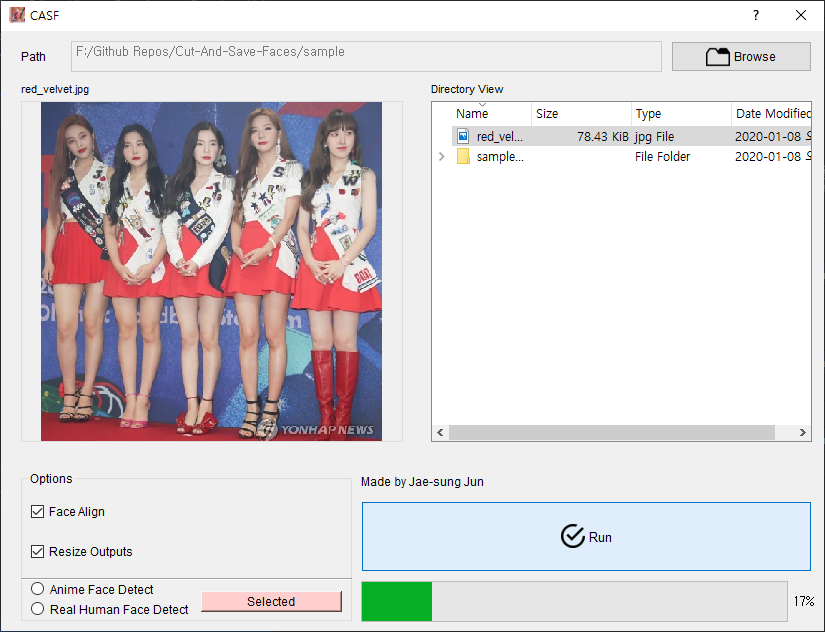
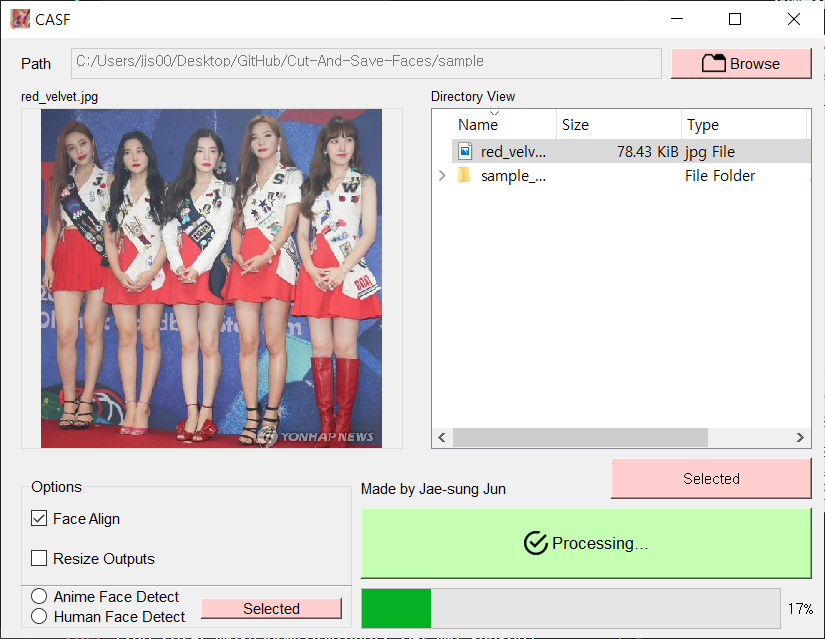
GUI Update

diff --git a/CASF-Main.py b/CASF-Main.py
@@ -70,7 +70,7 @@ class Main_Form_Ui(QMainWindow):
         self.real_face_radio_button.setObjectName("real_face_radio_button")
 
         self.anime_face_radio_button = QtWidgets.QRadioButton(self.group_box)
-        self.anime_face_radio_button.setGeometry(QtCore.QRect(10, 110, 141, 16))
+        self.anime_face_radio_button.setGeometry(QtCore.QRect(10, 110, 161, 16))
         self.anime_face_radio_button.setObjectName("anime_face_radio_button")
 
         self.detection_select_group = QtWidgets.QButtonGroup()
@@ -152,6 +152,10 @@ class Main_Form_Ui(QMainWindow):
         self.made_by_label.setFont(font)
         self.made_by_label.setObjectName("made_by_label")
         
+        self.output_path_select = QtWidgets.QPushButton(Dialog)
+        self.output_path_select.setGeometry(QtCore.QRect(610, 420, 201, 41))
+        self.output_path_select.setObjectName("output_path_select")
+
         self.retranslateUi(dialog)
 
     def retranslateUi(self, Dialog):
@@ -166,35 +170,34 @@ class Main_Form_Ui(QMainWindow):
         self.image_view_label.setText(_translate("Dialog", "Image View"))
         self.directory_view_label.setText(_translate("Dialog", "Directory View"))
         self.made_by_label.setText(_translate("Dialog", "Made by Jae-sung Jun"))
-        self.real_face_radio_button.setText(_translate("Dialog", "Real Human Face Detect"))
+        self.real_face_radio_button.setText(_translate("Dialog", "Human Face Detect"))
         self.anime_face_radio_button.setText(_translate("Dialog", "Anime Face Detect"))
         self.custom_detection_file.setText(_translate("Dialog", "Select Detection File"))
-       
+        self.output_path_select.setText(_translate("Dialog", "Select Output Path"))
+
 class Main_Form_Event_Handle:
 
     def __init__(self, main_dialog):
 
         self.path = ""
+        self.output_path = ""
         self.wh = ["",""]
         self.detection_file = ""
 
         self.main_dialog = main_dialog
-        
-        
-        self.main_dialog.statusBar()
         self.main_dialog.browse_button.clicked.connect(self.browseFileDialog)
         self.main_dialog.directory_tree_view.clicked.connect(self.directoryViewClick)
         self.main_dialog.resize_checkBox.stateChanged.connect(self.resizeCheckbox)
         self.main_dialog.custom_detection_file.clicked.connect(self.custom_detection_fileSelect)
         self.main_dialog.face_align_checkBox.clicked.connect(self.faceAlignCheckboxChecked)
-        
+        self.main_dialog.output_path_select.clicked.connect(self.getOutputPath)
         self.main_dialog.real_face_radio_button.clicked.connect(lambda: self.detectionFileCheck("real"))
         self.main_dialog.anime_face_radio_button.clicked.connect(lambda: self.detectionFileCheck("anime"))
 
         self.main_dialog.run_button.clicked.connect(self.run)
-       
         #icon
         self.setIcons()
+    
     def setIcons(self):
         icons_dir = os.path.dirname(os.path.realpath(__file__)) + "/icons/"
 
@@ -214,16 +217,18 @@ class Main_Form_Event_Handle:
         self.main_dialog.run_button.setIconSize(QtCore.QSize(24, 24))
 
     def browseFileDialog(self):
-        self.path = str(QtWidgets.QFileDialog.getExistingDirectory(self.main_dialog, "Select Directory"))
+        self.path = str(QtWidgets.QFileDialog.getExistingDirectory(self.main_dialog, "Select Directory", self.path))
         #Path is Exist
         if os.path.exists(self.path) == True:
-            self.main_dialog.path_text.setText(self.path)  
+            self.main_dialog.browse_button.setStyleSheet("background-color:#ffcece")
+            self.main_dialog.path_text.setText(self.path)
             self.model = QtWidgets.QFileSystemModel()
             self.model.setRootPath('')
             self.main_dialog.directory_tree_view.setModel(self.model)
             self.main_dialog.directory_tree_view.setRootIndex(self.model.index(self.path))
         #Path Not Selected
         elif self.path == "":
+            self.main_dialog.browse_button.setStyleSheet("")
             pass
 
         #Path is Not Exist
@@ -232,7 +237,7 @@ class Main_Form_Event_Handle:
     
     def faceAlignCheckboxChecked(self):
         if self.main_dialog.face_align_checkBox.isChecked() == True:
-            QtWidgets.QMessageBox.information(self.main_dialog, 'Information', "Face Align option is recommends at detect faces.", QtWidgets.QMessageBox.Ok)
+            QtWidgets.QMessageBox.information(self.main_dialog, 'Information', "Face Align option is recommended at detecting faces.", QtWidgets.QMessageBox.Ok)
     
     def directoryViewClick(self, index):
         path = self.main_dialog.sender().model().filePath(index)
@@ -258,8 +263,10 @@ class Main_Form_Event_Handle:
             self.wh = resize_output.getOutput()
 
     def detectionFileCheck(self, detection_object):
+        
         self.main_dialog.custom_detection_file.setText("Select Detection File")
         self.main_dialog.custom_detection_file.setStyleSheet("")
+
         if detection_object == "real":
             self.detection_file = ".\detection-files\haarcascade_frontalface_default.xml"
         elif detection_object == "anime":
@@ -276,13 +283,16 @@ class Main_Form_Event_Handle:
 
         self.main_dialog.detection_select_group.setExclusive(True)
 
-        fname = QtWidgets.QFileDialog.getOpenFileName(self.main_dialog, 'Open file', "", "XML Files(*.xml);; All Files(*)")
+        fname = QtWidgets.QFileDialog.getOpenFileName(self.main_dialog, "Open file", "./detection-files", "XML Files(*.xml);; All Files(*)")
         
         if os.path.isfile(fname[0]):
             self.detection_file = fname[0]
             self.main_dialog.custom_detection_file.setText("Selected")
             self.main_dialog.custom_detection_file.setStyleSheet("background-color:#ffcece")
         elif fname[0] == "":
+            self.detection_file = ""
+            self.main_dialog.custom_detection_file.setText("Select Detection File")
+            self.main_dialog.custom_detection_file.setStyleSheet("")
             pass
         elif not os.path.isfile(fname[0]):
             self.errorMessageBox("Error", "Please select other detection file")
@@ -291,6 +301,7 @@ class Main_Form_Event_Handle:
     def run(self):
         self.options = {
                         'input_path':self.path,
+                        'output_path':self.output_path,
                         'face_alignment':self.main_dialog.face_align_checkBox.isChecked(), 
                         'resize_output':self.main_dialog.resize_checkBox.isChecked(), 
                         'resize_width':self.wh[0],
@@ -298,15 +309,37 @@ class Main_Form_Event_Handle:
                         'detection_file':self.detection_file
                         }
         #print(self.options)
-        if self.checkOptions(self.options) == False:
+        if not self.checkOptions(self.options):
             self.main_dialog.progress_bar.setProperty("value", 0)
+            self.main_dialog.run_button.setStyleSheet("background-color:#c4ffb2")
+            self.main_dialog.run_button.setText("Processing...")
             run = CASF.CASF_Main(self.options, self.main_dialog)
-    
+            self.main_dialog.run_button.setStyleSheet("")
+            self.main_dialog.run_button.setText("Run")
+
+    def getOutputPath(self):
+        self.output_path = str(QtWidgets.QFileDialog.getExistingDirectory(self.main_dialog, "Select Directory", self.output_path))
+        if os.path.exists(self.output_path) == True:
+            self.main_dialog.output_path_select.setText("Selected")
+            self.main_dialog.output_path_select.setStyleSheet("background-color:#ffcece")
+        #Path Not Selected
+        elif self.output_path == "":
+            self.main_dialog.output_path_select.setText("Select Output Path")
+            self.main_dialog.output_path_select.setStyleSheet("")
+            pass
+        #Path is Not Exist
+        elif os.path.exists(self.output_path) == False:
+            self.errorMessageBox("Directory Load Error", "Please select other directory")
+
     def checkOptions(self, options):
         err = False
         # Exception Handling
         if self.options['input_path'] == "":
             self.errorMessageBox("Error", "Please select your input directory path")
+            err = True
+
+        elif self.options['output_path'] == "":
+            self.errorMessageBox("Error", "Please select your output directory path")
             err = True
 
         elif self.options['detection_file'] == "":
@@ -328,10 +361,9 @@ if __name__ == "__main__":
     app = QtWidgets.QApplication(sys.argv)
 
     dialog = QtWidgets.QMainWindow()
-    
+
     main_form_ui = Main_Form_Ui()
     main_form_ui.setupUi(dialog)
-
     # ===========Event Handle Codes=============== #
     event_handle = Main_Form_Event_Handle(main_form_ui)
     dialog.show()

diff --git a/CASF.py b/CASF.py
@@ -2,8 +2,6 @@ import cv2
 import os
 import dlib
 import numpy as np
-import threading
-import concurrent.futures
 from PyQt5.QtWidgets import QMessageBox
 from imutils.face_utils import FaceAligner
 from imutils.face_utils import rect_to_bb
@@ -11,28 +9,23 @@ from imutils import face_utils
 
 class CASF_Main():
     def __init__(self, options, dialog):
-
-        with concurrent.futures.ThreadPoolExecutor(max_workers=1) as executor:
+        try:
+            path_list, file_list = self.getImagePath(options['input_path'])
+        except:
+            QMessageBox.about(dialog, "Error", "Error during get image path")
+        try:
+            face_cascade = self.detectionFileLoad(options['detection_file'])
+        except:
+            QMessageBox.about(dialog, "Error", "Error during load detection file")
             
-            get_image_path = executor.submit(self.getImagePath, (options['input_path']))
-            detection_file_load = executor.submit(self.detectionFileLoad, (options['detection_file']))
-            path_list, file_list = get_image_path.result()
-            face_cascade = detection_file_load.result()
-            detect_face = executor.submit(lambda p: self.detectFace(*p), [options, path_list, file_list, face_cascade, dialog] )
-                
-        if get_image_path.exception() != None :
-            QMessageBox.about(dialog, "Error", "File Information Load Error")
+        detect_face = self.detectFace(options, path_list, file_list, face_cascade, dialog)
 
-        if detection_file_load.exception() != None or detect_face.exception() != None:
-            QMessageBox.about(dialog, "Error", "Face Detecting Error")
-            if not os.path.isfile(options['detection_file']):
-                QMessageBox.about(dialog, "Error", "Can't Find Detection File")
-        
-        if detect_face.result() == True:
+        if detect_face == "0":
             QMessageBox.about(dialog, "Complete", "Complete :)")
-        elif detect_face.result() == False:
-            QMessageBox.about(dialog, "Complete", "Error during detecting Faces :(")
-
+        elif detect_face == "1":
+            QMessageBox.about(dialog, "Complete", "Unknown Error during detect Faces :(")
+        elif detect-face == "SaveError":
+            QMessagebox.about(dialog, "Complete", "Error during save outputs :(")
     def detectFace(self, options, path_list, file_list, face_cascade, dialog):
         TrackingState = 0
         TrackingROI = (0,0,0,0)
@@ -57,18 +50,19 @@ class CASF_Main():
                             predictor = dlib.shape_predictor("./detection-files/shape_predictor_68_face_landmarks.dat")
                             fa = FaceAligner(predictor, desiredFaceWidth=256)
                             cropped_img = fa.align(img, grayframe, dlib_cropped_img)
-
                         if options['resize_output']:
                             cropped_img = cv2.resize(cropped_img, (int(options['resize_width']), int(options['resize_height'])))
-                        cv2.imwrite("./outputs/{0}_{1}_cropped.jpg".format(str(file_list[i]), str(n)), cropped_img)
+                        try:
+                            cv2.imwrite("{0}/{1}_{2}_cropped.jpg".format(options['output_path'], str(file_list[i]), str(n)), cropped_img)
+                        except:
+                            return "SaveError"
                         n += 1
                     print("Detected {} Objects from {}".format(str(len(faces)), file_list[i]))
-
                 else:
                     print(file_list[i] + " : Can't Detect Objects :( ")
-            return True
+            return "0"
         except:
-            return False
+            return "1"
                 
         
     def detectionFileLoad(self, detection_file_path):

diff --git a/GUI_Test/gui.py b/GUI_Test/gui.py
@@ -2,7 +2,7 @@
 
 # Form implementation generated from reading ui file '.\GUI.ui'
 #
-# Created by: PyQt5 UI code generator 5.14.0
+# Created by: PyQt5 UI code generator 5.13.0
 #
 # WARNING! All changes made in this file will be lost!
 
@@ -109,6 +109,9 @@ class Ui_Dialog(object):
         font.setFamily("Arial")
         self.label.setFont(font)
         self.label.setObjectName("label")
+        self.output_path_select = QtWidgets.QPushButton(Dialog)
+        self.output_path_select.setGeometry(QtCore.QRect(610, 420, 201, 41))
+        self.output_path_select.setObjectName("output_path_select")
 
         self.retranslateUi(Dialog)
         QtCore.QMetaObject.connectSlotsByName(Dialog)
@@ -128,7 +131,7 @@ class Ui_Dialog(object):
         self.label_2.setText(_translate("Dialog", "Image View"))
         self.label_4.setText(_translate("Dialog", "Directory View"))
         self.label.setText(_translate("Dialog", "Made by Jae-sung Jun"))
-
+        self.output_path_select.setText(_translate("Dialog", "Select Output Path"))
 
 if __name__ == "__main__":
     import sys

diff --git a/README.md b/README.md
@@ -40,7 +40,9 @@ Written by Python. (uses Qt to develop its graphical interface)
 * [x] Face Alignment
 * [x] Graphic InterFace
 * [ ] Labeling
+  
 ## Requirements
+
 * Ubuntu(Not tested) , macOS(Not tested), Windows
 * PyQt5
 * Python 3 
